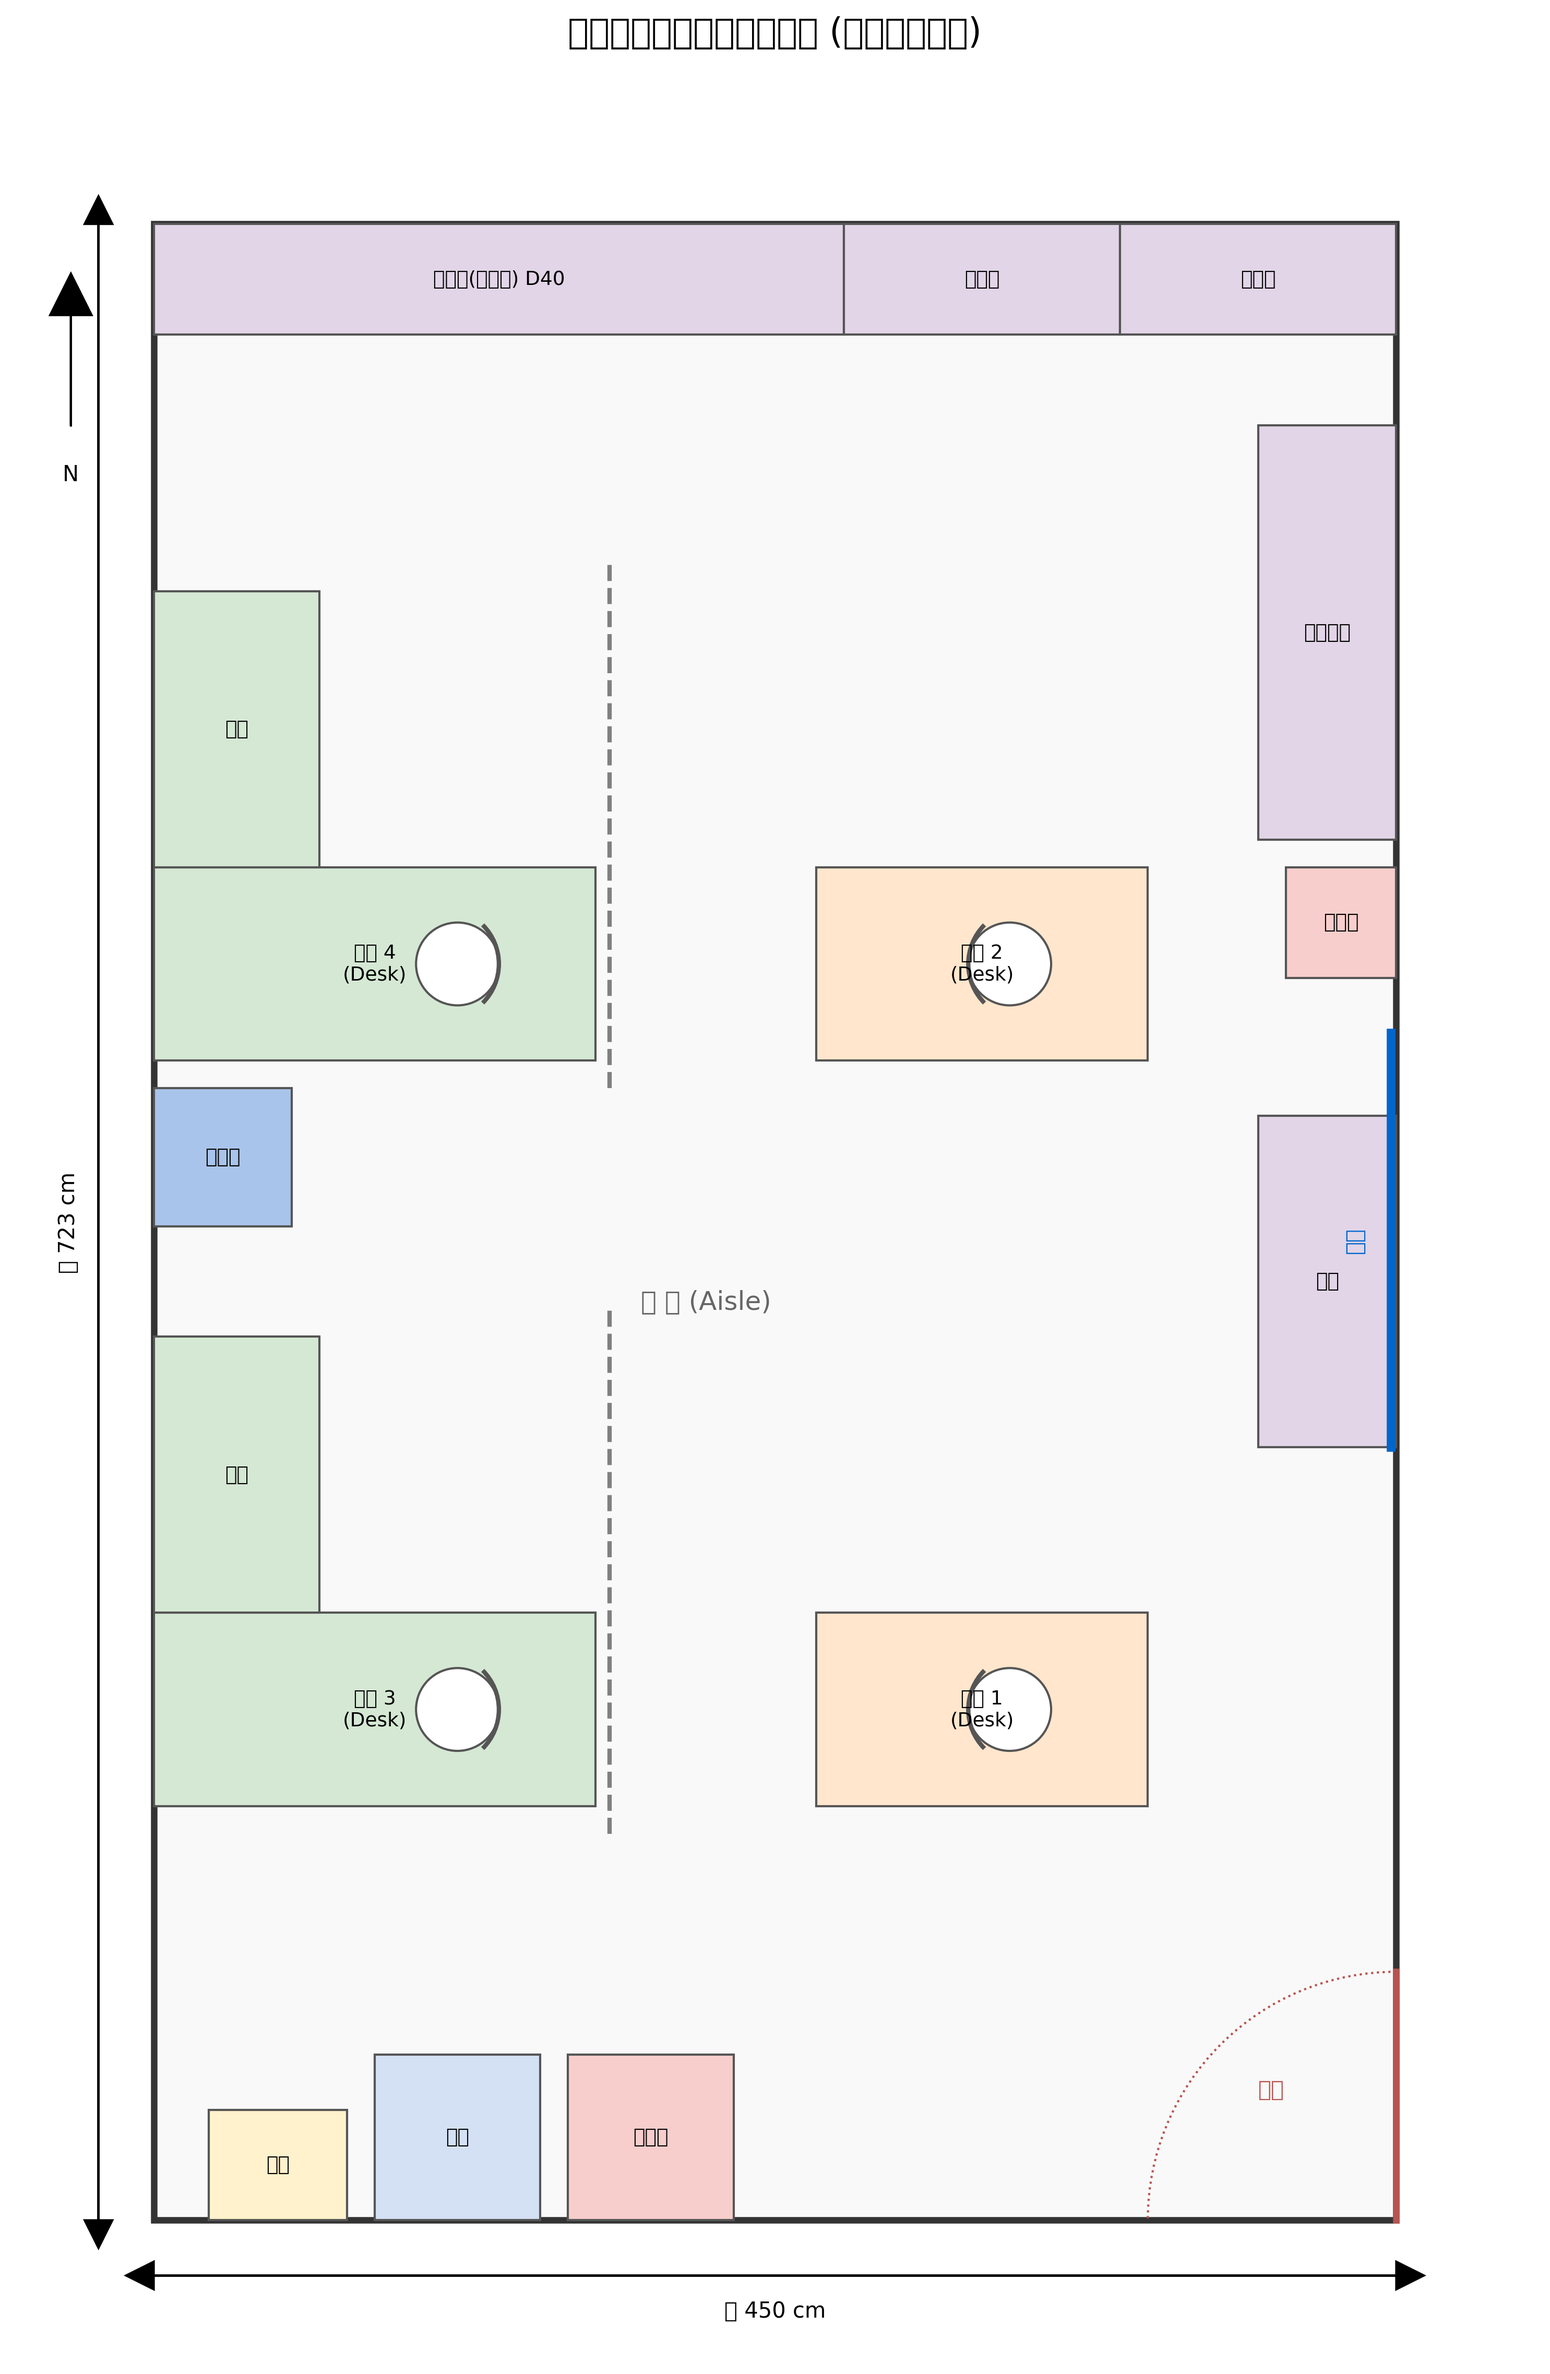
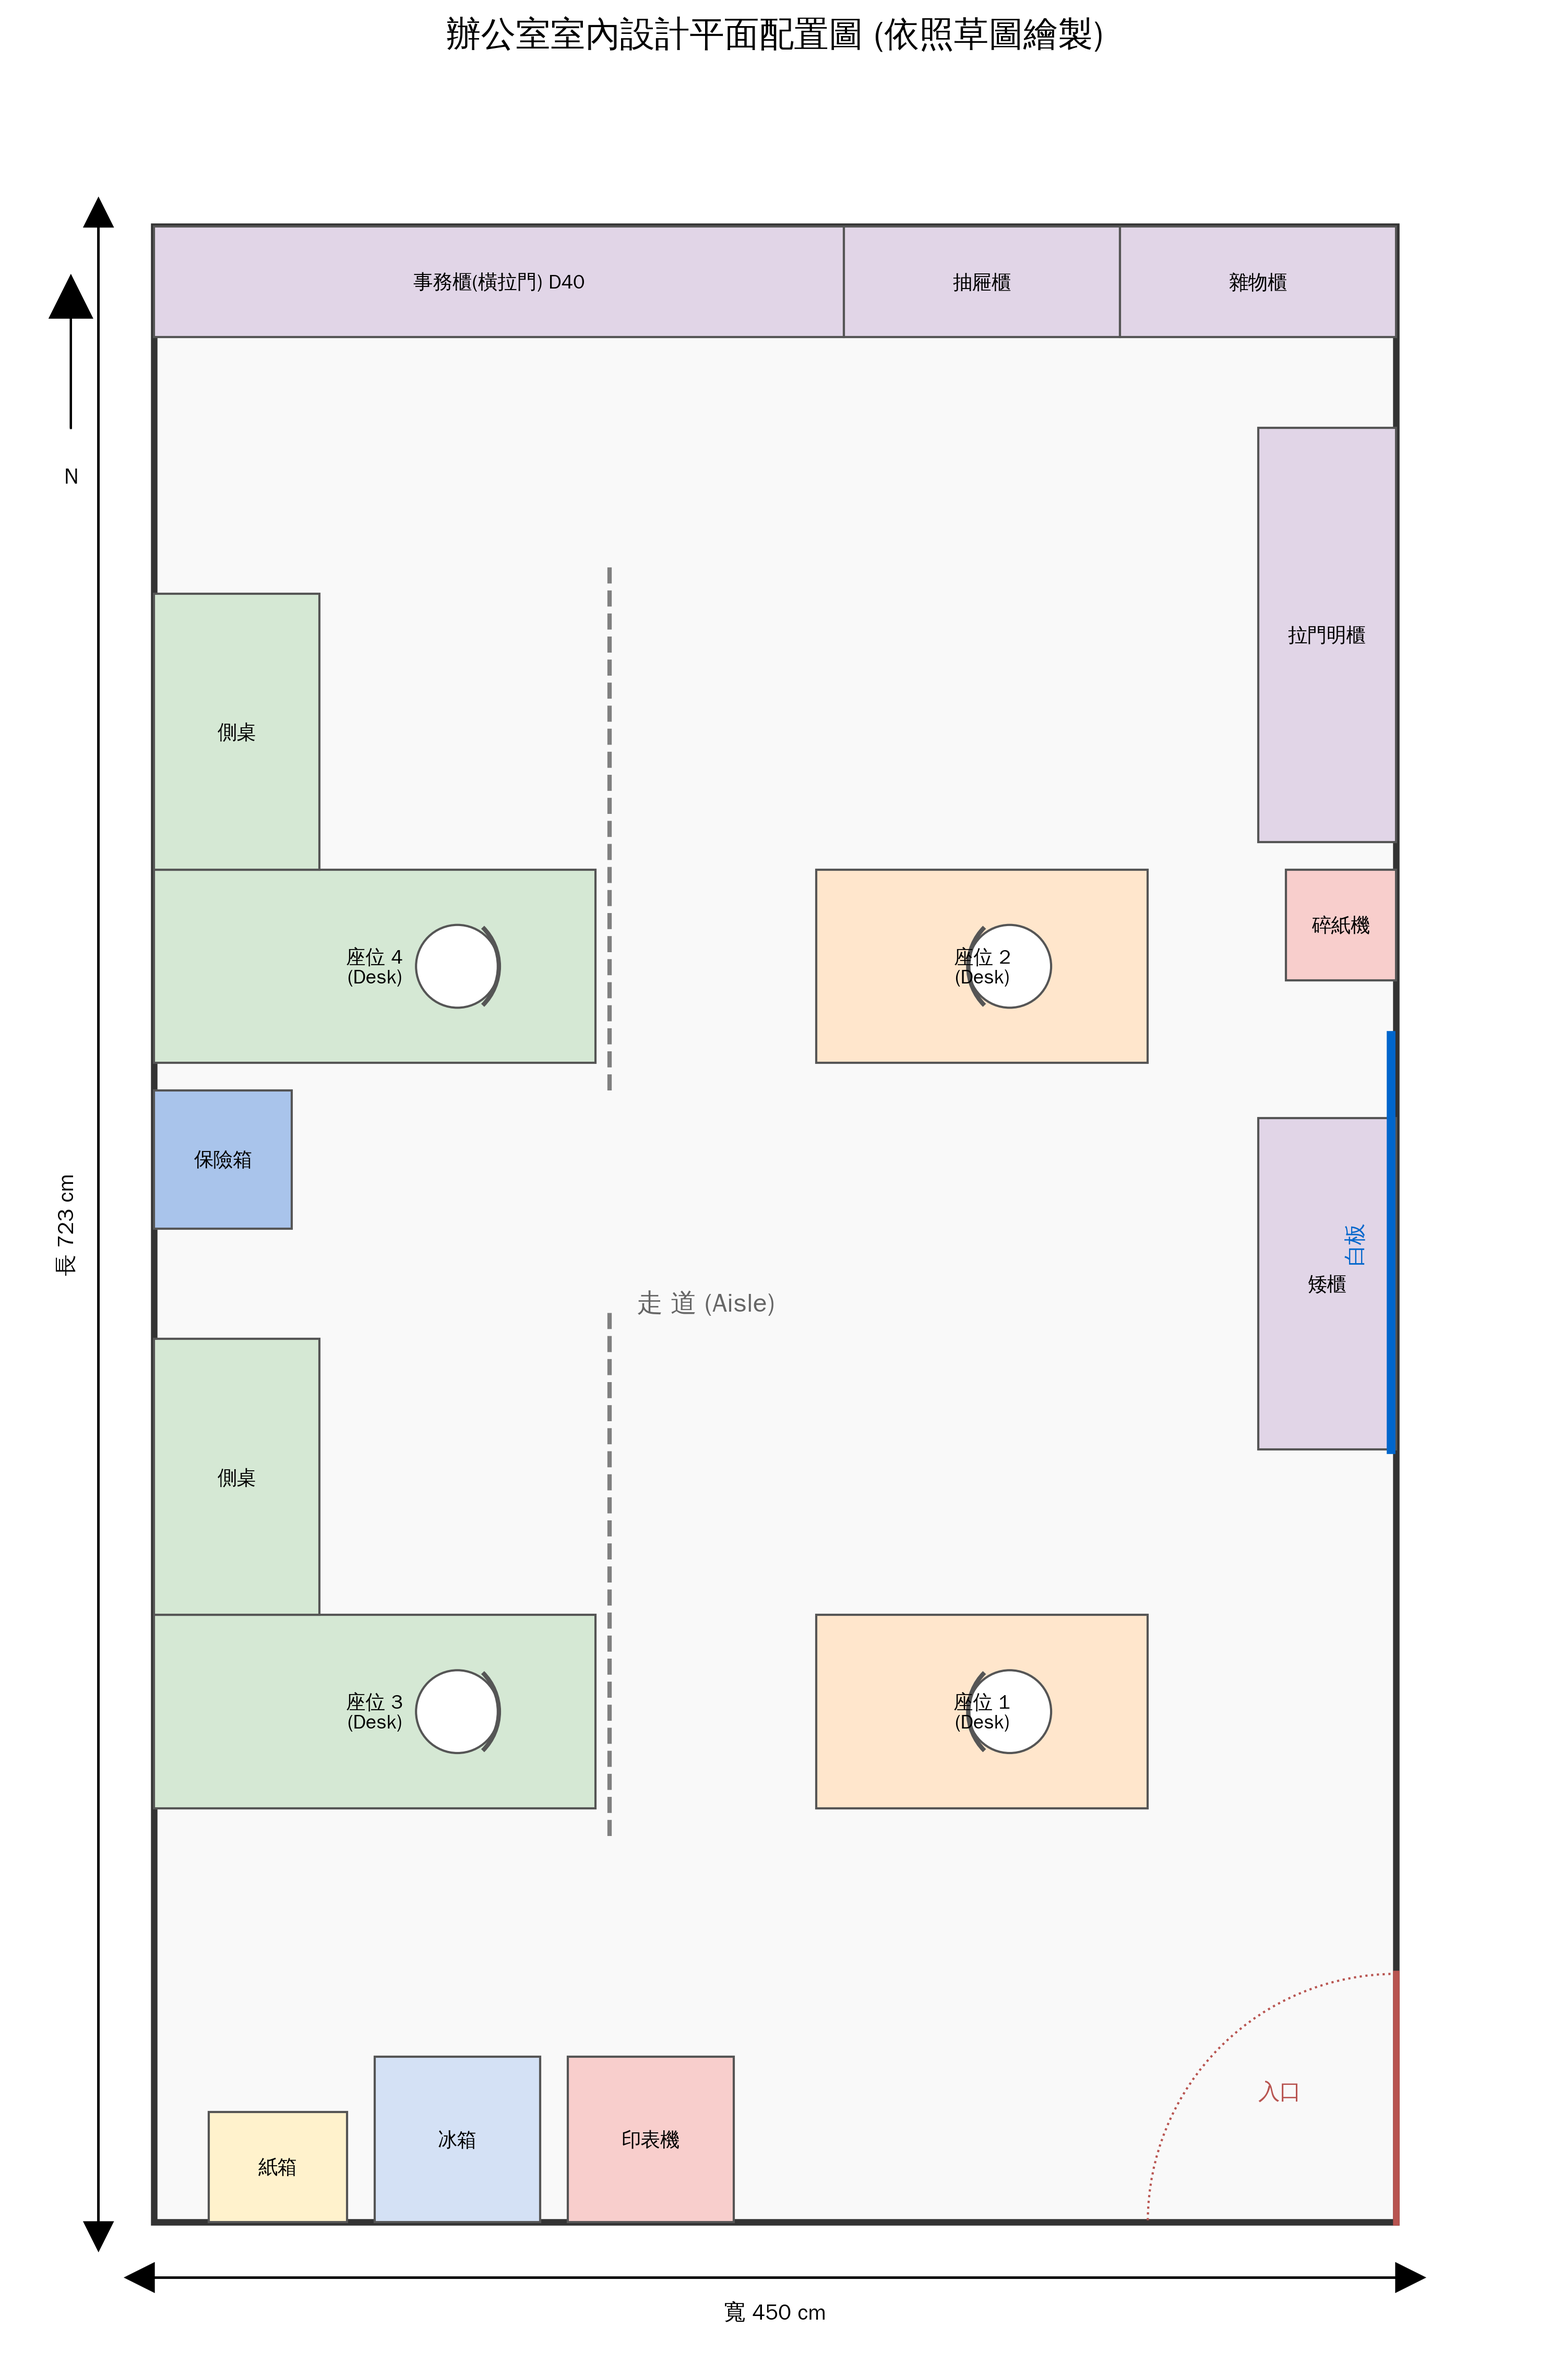
Fix Chinese font rendering issue
- Replace 'Heiti TC' with 'WenQuanYi Zen Hei' font
- Use system-available font to properly display Chinese characters
- Regenerate floor plan with correct font rendering

diff --git a/office_floor_plan.py b/office_floor_plan.py
@@ -20,7 +20,7 @@ def draw_office_plan():
     def add_rect(x, y, w, h, label, color='#E0E0E0', label_color='black'):
         rect = patches.Rectangle((x, y), w, h, linewidth=1, edgecolor='#555555', facecolor=color)
         ax.add_patch(rect)
-        ax.text(x + w/2, y + h/2, label, ha='center', va='center', fontsize=9, color=label_color, fontname='Heiti TC')
+        ax.text(x + w/2, y + h/2, label, ha='center', va='center', fontsize=9, color=label_color, fontname='WenQuanYi Zen Hei')
 
     def add_chair(x, y, direction):
         # 簡單的椅子示意圖
@@ -74,7 +74,7 @@ def draw_office_plan():
     add_rect(400, 280, 50, 120, "矮櫃", color='#E1D5E7')
     # 白板 (牆上標示)
     ax.plot([448, 448], [280, 430], color='#0066CC', linewidth=4)
-    ax.text(435, 355, "白板", rotation=90, ha='center', va='center', color='#0066CC', fontname='Heiti TC')
+    ax.text(435, 355, "白板", rotation=90, ha='center', va='center', color='#0066CC', fontname='WenQuanYi Zen Hei')
 
     # D. 入口與茶水設備區 (下方牆面)
     # 門 (右下角)
@@ -82,7 +82,7 @@ def draw_office_plan():
     ax.plot([450, 450], [0, door_width], color='#B85450', linewidth=3) # 門框
     door_arc = patches.Arc((450, 0), door_width*2, door_width*2, theta1=90, theta2=180, color='#B85450', linestyle=':')
     ax.add_patch(door_arc)
-    ax.text(400, 45, "入口", color='#B85450', fontname='Heiti TC')
+    ax.text(400, 45, "入口", color='#B85450', fontname='WenQuanYi Zen Hei')
 
     # 設備
     add_rect(150, 0, 60, 60, "印表機", color='#F8CECC')
@@ -93,21 +93,21 @@ def draw_office_plan():
     # 尺寸標註
     ax.arrow(-20, 0, 0, room_length, head_width=10, head_length=10, fc='k', ec='k')
     ax.arrow(-20, room_length, 0, -room_length, head_width=10, head_length=10, fc='k', ec='k')
-    ax.text(-35, room_length/2, f'長 {room_length} cm', va='center', rotation=90, fontname='Heiti TC')
+    ax.text(-35, room_length/2, f'長 {room_length} cm', va='center', rotation=90, fontname='WenQuanYi Zen Hei')
 
     ax.arrow(0, -20, room_width, 0, head_width=10, head_length=10, fc='k', ec='k')
     ax.arrow(room_width, -20, -room_width, 0, head_width=10, head_length=10, fc='k', ec='k')
-    ax.text(room_width/2, -35, f'寬 {room_width} cm', ha='center', fontname='Heiti TC')
+    ax.text(room_width/2, -35, f'寬 {room_width} cm', ha='center', fontname='WenQuanYi Zen Hei')
 
     # 走道文字
-    ax.text(200, 330, "走 道 (Aisle)", ha='center', fontsize=12, color='#666666', fontname='Heiti TC')
+    ax.text(200, 330, "走 道 (Aisle)", ha='center', fontsize=12, color='#666666', fontname='WenQuanYi Zen Hei')
 
     # 北向指標
     ax.arrow(-30, 650, 0, 40, head_width=15, head_length=15, fc='k', ec='k')
-    ax.text(-30, 630, "N", ha='center', fontname='Heiti TC')
+    ax.text(-30, 630, "N", ha='center', fontname='WenQuanYi Zen Hei')
 
     # 標題
-    ax.set_title("辦公室室內設計平面配置圖 (依照草圖繪製)", fontsize=16, pad=20, fontname='Heiti TC')
+    ax.set_title("辦公室室內設計平面配置圖 (依照草圖繪製)", fontsize=16, pad=20, fontname='WenQuanYi Zen Hei')
 
     plt.axis('off') # 隱藏座標軸
     plt.tight_layout()
